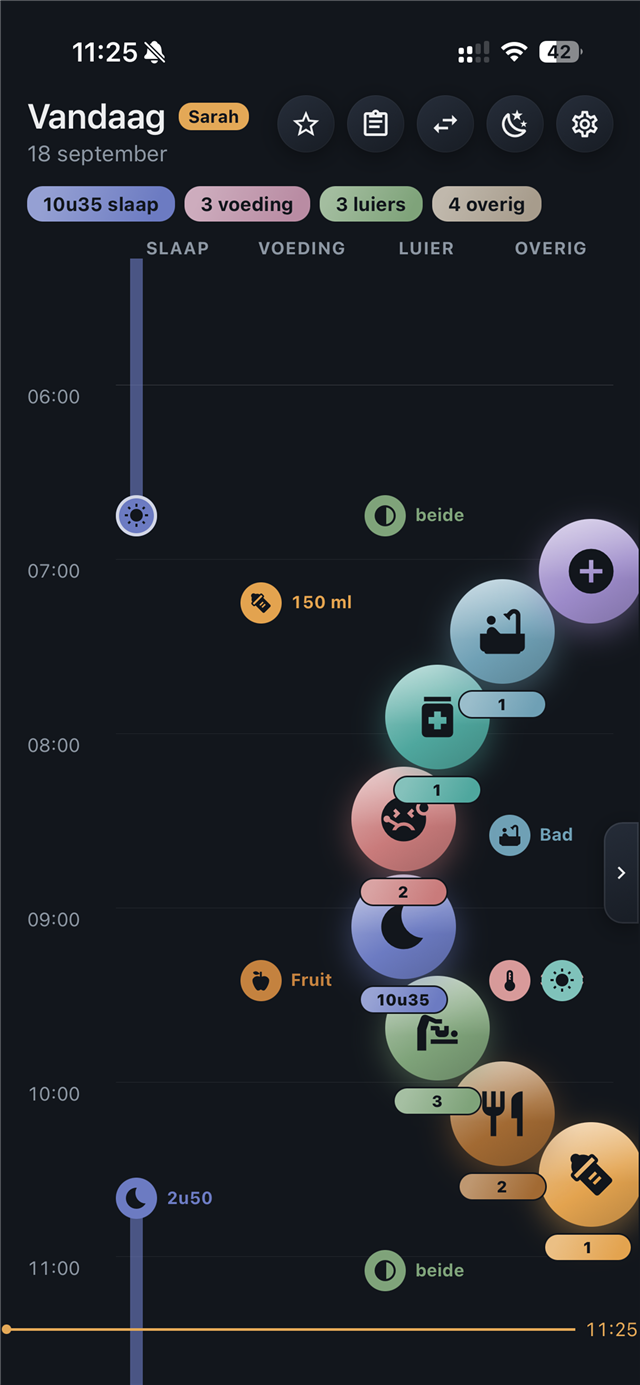
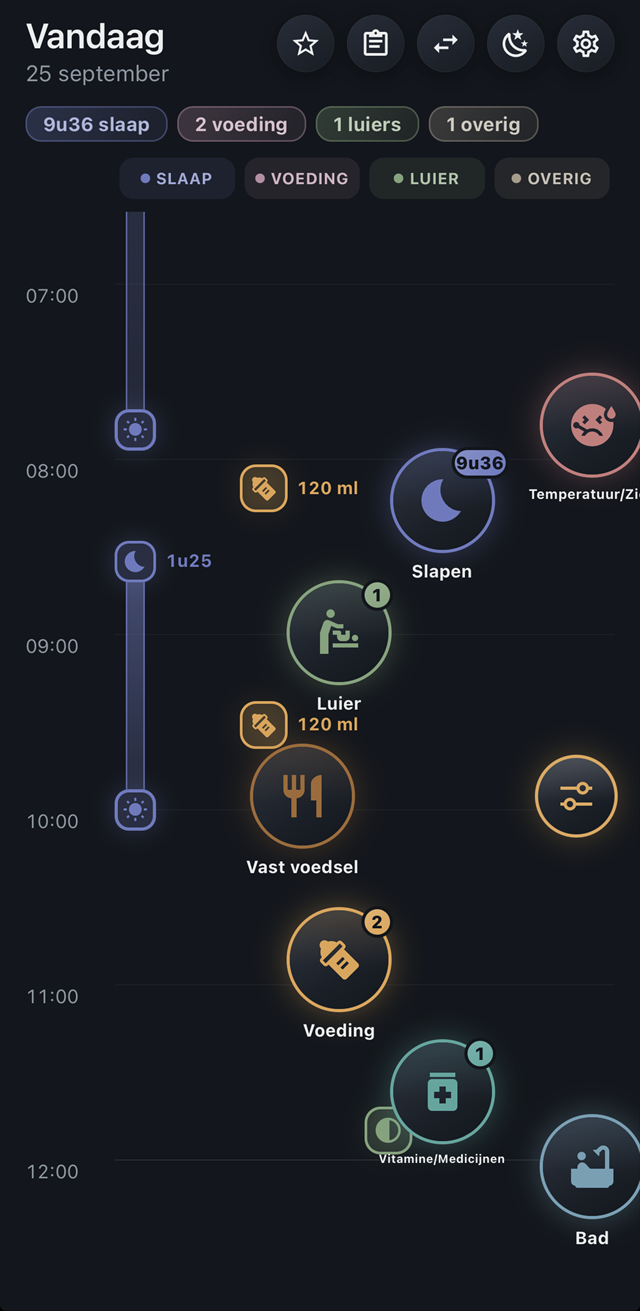
Coming soon label instead of the store button, new hero in the design 2.0 style

diff --git a/nl/index.html b/nl/index.html
@@ -22,7 +22,7 @@
 <meta property="og:image:alt" content="Nuvo-icoon, de kop 'Slaap, voeding en luiers bijhouden — met één gebaar' en het wiel op een iPhone-scherm">
 <meta name="twitter:card" content="summary_large_image">
 <link rel="icon" href="/assets/favicon.png">
-<meta name="apple-itunes-app" content="app-id=6813427228">
+<!-- <meta name="apple-itunes-app" content="app-id=6813427228"> (tijdelijk uit, zie cta-row) -->
 <link rel="stylesheet" href="/assets/style.css">
 </head>
 <body>
@@ -44,8 +44,12 @@
   <img class="hero-shot" src="/assets/hero-wheel.png" alt="Nuvo's wiel en tijdlijn op een iPhone-scherm">
 
   <div class="cta-row">
-    <a class="cta" href="https://apps.apple.com/app/id6813427228?ct=site-nl">Probeer 7 dagen gratis</a>
-    <p class="cta-note">Download in de App Store · geen account nodig</p>
+    <!-- Tijdelijk "binnenkort" (2026-09-25). Terug naar de knop:
+         <a class="cta" href="https://apps.apple.com/app/id6813427228?ct=site-nl">Probeer 7 dagen gratis</a>
+         <p class="cta-note">Download in de App Store · geen account nodig</p>
+         en de apple-itunes-app-meta in de head terugzetten. -->
+    <span class="cta soon">Binnenkort in de App Store</span>
+    <p class="cta-note">Voor iPhone. Kijk hier binnenkort weer; de knop verschijnt zodra de nieuwe versie live staat.</p>
   </div>
 
   <ul class="features">

diff --git a/en/index.html b/en/index.html
@@ -22,7 +22,7 @@
 <meta property="og:image:alt" content="Nuvo app icon, the headline 'Track sleep, feeding and diapers — with one gesture' and the wheel on an iPhone screen">
 <meta name="twitter:card" content="summary_large_image">
 <link rel="icon" href="/assets/favicon.png">
-<meta name="apple-itunes-app" content="app-id=6813427228">
+<!-- <meta name="apple-itunes-app" content="app-id=6813427228"> (tijdelijk uit, zie cta-row) -->
 <link rel="stylesheet" href="/assets/style.css">
 </head>
 <body>
@@ -44,8 +44,12 @@
   <img class="hero-shot" src="/assets/hero-wheel.png" alt="Nuvo's wheel and timeline on an iPhone screen">
 
   <div class="cta-row">
-    <a class="cta" href="https://apps.apple.com/app/id6813427228?ct=site-en">Try 7 days free</a>
-    <p class="cta-note">Download on the App Store · no account needed</p>
+    <!-- Temporarily "coming soon" (2026-09-25). Back to the button:
+         <a class="cta" href="https://apps.apple.com/app/id6813427228?ct=site-en">Try 7 days free</a>
+         <p class="cta-note">Download on the App Store · no account needed</p>
+         and restore the apple-itunes-app meta in the head. -->
+    <span class="cta soon">Coming soon to the App Store</span>
+    <p class="cta-note">For iPhone. Check back soon; the button appears as soon as the new version is live.</p>
   </div>
 
   <ul class="features">

diff --git a/og-src/template.html b/og-src/template.html
@@ -94,11 +94,11 @@
   var copy = {
     nl: {
       headline: 'Slaap, voeding en luiers bijhouden — met één gebaar',
-      note: 'Probeer 7 dagen gratis · geen account nodig'
+      note: 'Binnenkort in de App Store · geen account nodig'
     },
     en: {
       headline: 'Track sleep, feeding and diapers — with one gesture',
-      note: 'Try 7 days free · no account needed'
+      note: 'Coming soon to the App Store · no account needed'
     }
   };
   var lang = new URLSearchParams(location.search).get('lang') === 'nl' ? 'nl' : 'en';

diff --git a/assets/style.css b/assets/style.css
@@ -107,6 +107,14 @@ h1 {
   box-shadow: 0 6px 20px rgba(240,192,119,0.25);
 }
 
+.cta.soon {
+  cursor: default;
+  background: transparent;
+  color: var(--amber);
+  border: 1.5px solid var(--amber);
+  box-shadow: none;
+}
+
 .cta-note {
   text-align: center;
   color: var(--muted);

diff --git a/README.md b/README.md
@@ -70,3 +70,12 @@ netlify.toml          — publish-map + wat lichte security-headers
   bij deze ene landingspagina.
 - Screenshot is nu 640px breed (~330KB) — prima voor nu, kan later vervangen worden door
   een geëxporteerde videoframe of een lichtere WebP-versie.
+
+## Tijdelijk "Binnenkort in de App Store" (sinds 2026-09-25)
+
+De knop "Probeer 7 dagen gratis" en de Safari-appbanner staan tijdelijk uit. Terugzetten zodra
+de nieuwe versie live staat: in `nl/index.html` en `en/index.html` de uitgecommentarieerde
+`<a class="cta" …>` en `<p class="cta-note">` terugzetten (staan als commentaar in `.cta-row`),
+de `apple-itunes-app`-meta in de head weer aanzetten, in `og-src/template.html` de `note` terug
+naar "Probeer 7 dagen gratis · geen account nodig" / "Try 7 days free · no account needed",
+`node og-src/build.mjs`, en `nuvo-landing-upload` opnieuw vullen.
